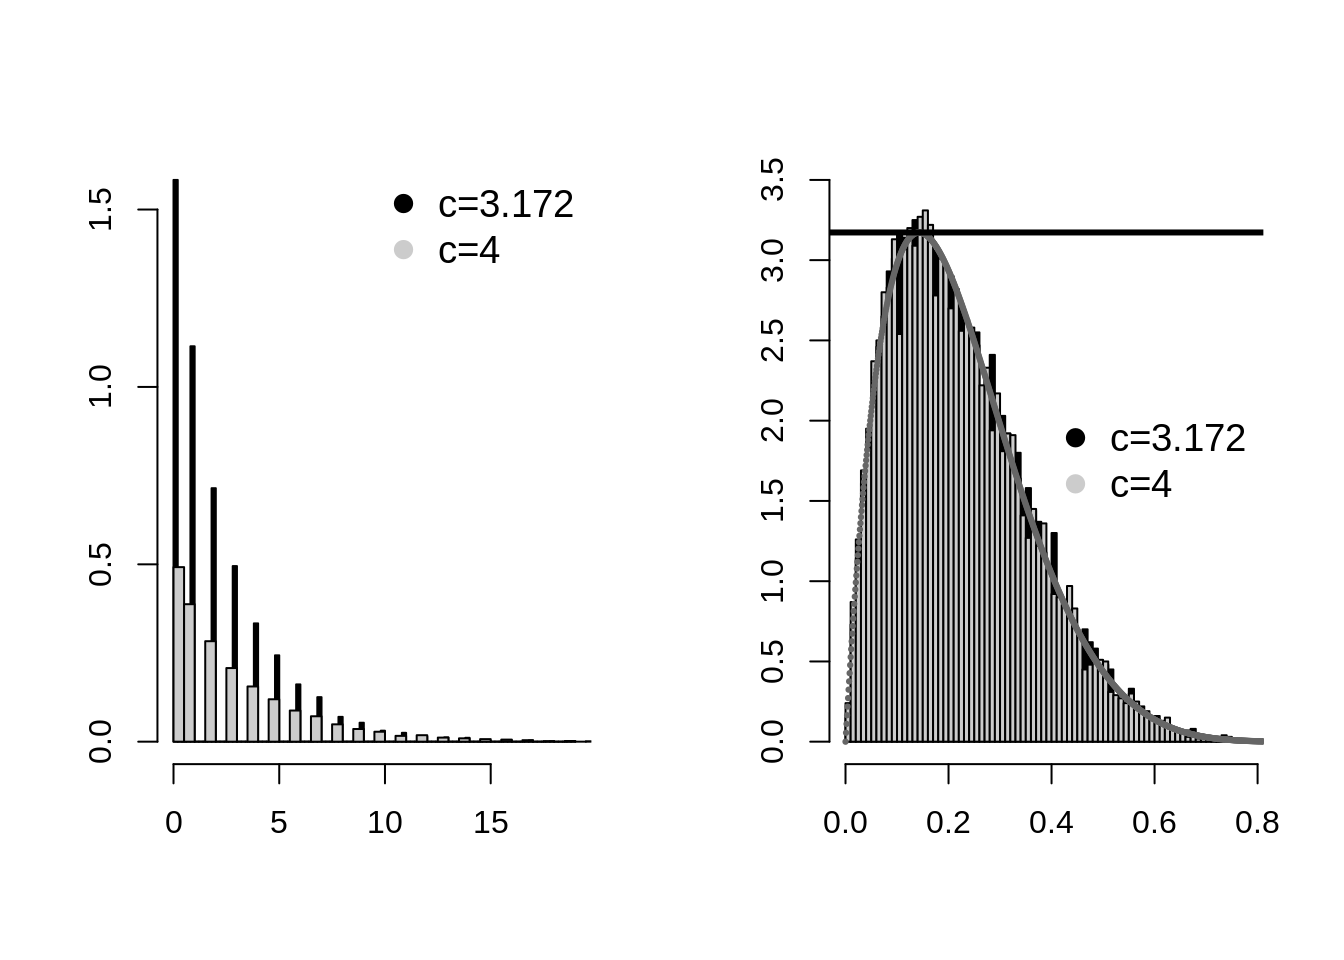
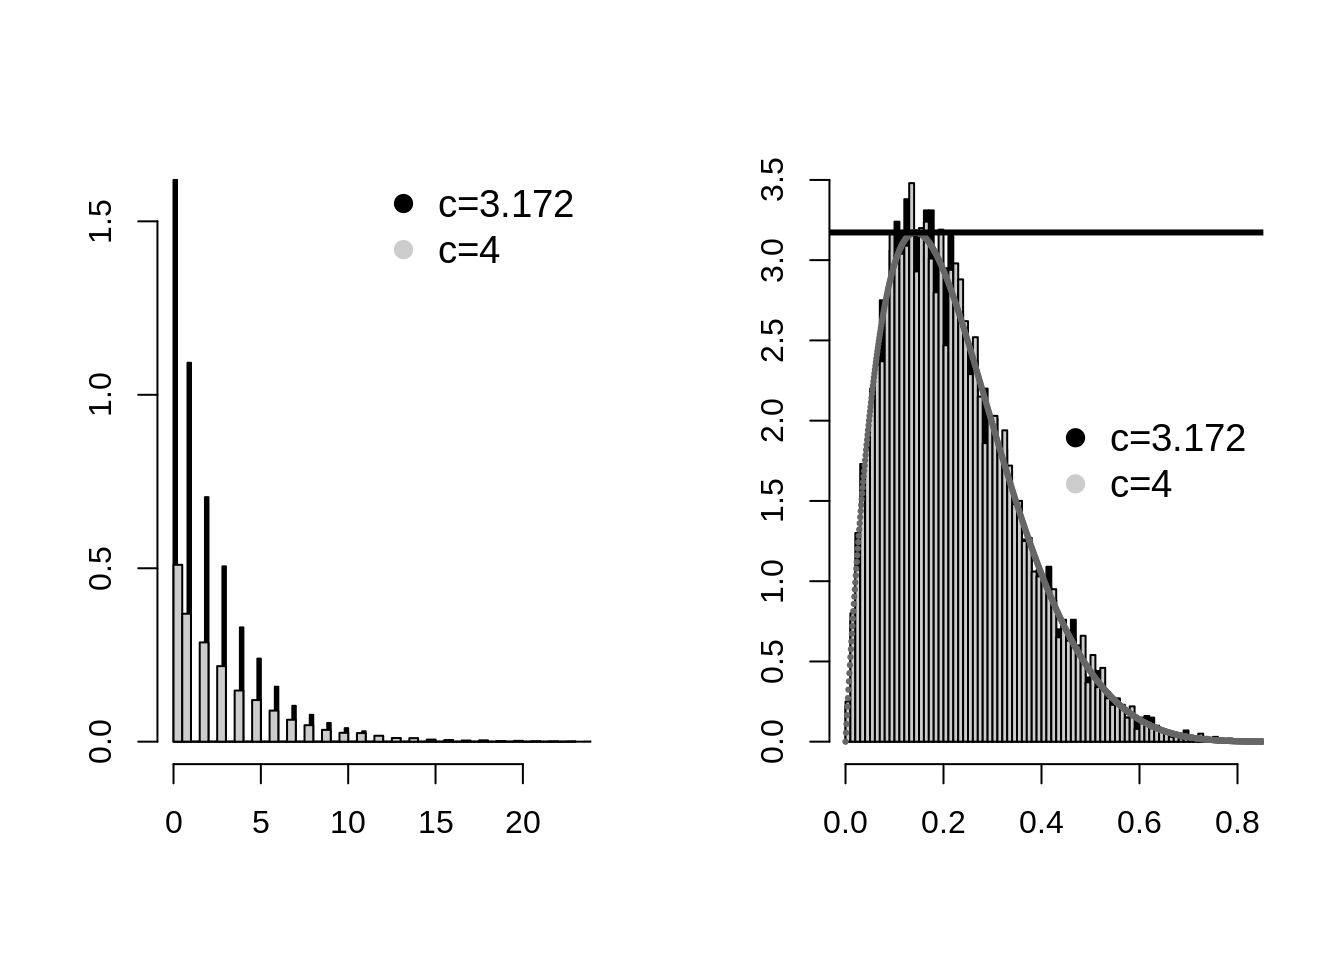
Adding some files

diff --git a/post/2020-12-18-acceptance-rejection-algorithm/index.html b/post/2020-12-18-acceptance-rejection-algorithm/index.html
@@ -145,7 +145,7 @@ A probability distribution gives the probability of having a random variable Y. 
 
 <p>This is one of my favourite introductory algorithm for sampling data from a distribution. A pre requisite basic knowledge about probability distribution, CDF and inverse CDF is necessary to follow the article.</p>
 <p>A probability distribution gives the probability of having a random variable Y. To get Y from probability, a usual method is to find inverse CDF. There are several pdf whose inverse are difficult to obtain, does not exist or have no closed solution. Acceptance-Rejection method is used when it is not possible to find inverse CDF of a distribution, but we can get random variable (rv) using inverse of another similar distribution and say whether this particular rv can be used as if it was generated from our original distribution.</p>
-<p>In acceptance rejection method, the idea is to find a probabiliy distribution, <span class="math inline">\(g_y\)</span>, from which we can generate a random variable (rv) Y and able to tell whether this rv can be accepted for our target distribution, <span class="math inline">\(f_y\)</span>. The random variable Y is chosen in such a way that the <span class="math inline">\(g_y\)</span> can be scaled to majorize <span class="math inline">\(f_y\)</span> using some constant c; that is <span class="math inline">\(c.g_y(x)\geq f_y(x)\)</span>. The density <span class="math inline">\(g_y\)</span> is known as majorizing density or proposal density and <span class="math inline">\(f_y\)</span> is known as target density. The <a href="https://math.stackexchange.com/questions/2667060/support-of-density-function">support</a> of the target density must be contained in the support of proposal density. For density having infinite support, the majorizing density should also have infinite support. In the case of infinite support, it is critical that the majorizing density should not approach zero faster than the target density. It makes sense now as if there’s a region of the support of f that g can never touch, then that area will never get sampled.</p>
+<p>In acceptance rejection method, the idea is to find a probability distribution, <span class="math inline">\(g_y\)</span>, from which we can generate a random variable (rv) Y and able to tell whether this rv can be accepted for our target distribution, <span class="math inline">\(f_y\)</span>. The random variable Y is chosen in such a way that the <span class="math inline">\(g_y\)</span> can be scaled to majorize <span class="math inline">\(f_y\)</span> using some constant c; that is <span class="math inline">\(c.g_y(x)\geq f_y(x)\)</span>. The density <span class="math inline">\(g_y\)</span> is known as majorizing density or proposal density and <span class="math inline">\(f_y\)</span> is known as target density. The <a href="https://math.stackexchange.com/questions/2667060/support-of-density-function">support</a> of the target density must be contained in the support of proposal density. For density having infinite support, the majorizing density should also have infinite support. In the case of infinite support, it is critical that the majorizing density should not approach zero faster than the target density. It makes sense now as if there’s a region of the support of f that g can never touch, then that area will never get sampled.</p>
 <p><strong>Following is the Acceptance Rejection algorithm :</strong></p>
 <ol style="list-style-type: decimal">
 <li>Sample a rv Y <span class="math inline">\(\sim g_y(x)\)</span> ( by taking inverse CDF. Remember, taking inverse of majorizing function should be easy)</li>
@@ -154,7 +154,7 @@ A probability distribution gives the probability of having a random variable Y. 
 <li>Else accept Y for <span class="math inline">\(f_y(x)\)</span>.</li>
 <li>Keep repeating the above step for desired number of samples.</li>
 </ol>
-<p>Step 2 generates uniform probability between 0 and 1. In Step 3 but the ratio <span class="math inline">\(f_y(x)/g_y(x)\)</span> is bounded by a constant c&gt;0. c.g(x) acts as a envelope for the target function <span class="math inline">\(f_y\)</span>. I did not find much meaning of the ratio but one way to think about this fraction is that, it inherently implies that how many fraction of rv for <span class="math inline">\(f_y\)</span> is included in c*<span class="math inline">\(g_y\)</span>. Step 3 implies that if the probability of generated point is lesser than probability generated by uniform distribution then accept that sample, which I find is a nice way to think about it. We need to maximize this fraction so that we can cover most of the points in <span class="math inline">\(g_y\)</span> for <span class="math inline">\(f_y\)</span>. Moreover, larger C value will result inot rejection of more samples so we need to find c as small as possible.</p>
+<p>Step 2 generates uniform probability between 0 and 1. In Step 3 but the ratio <span class="math inline">\(f_y(x)/g_y(x)\)</span> is bounded by a constant c&gt;0. c.g(x) acts as a envelope for the target function <span class="math inline">\(f_y\)</span>. I did not find much meaning of the ratio but one way to think about this fraction is that, it inherently implies that how many fraction of rv for <span class="math inline">\(f_y\)</span> is included in c*<span class="math inline">\(g_y\)</span>. Step 3 implies that if the probability of generated point is lesser than probability generated by uniform distribution then accept that sample, which I find is a nice way to think about it. We need to maximize this fraction so that we can cover most of the points in <span class="math inline">\(g_y\)</span> for <span class="math inline">\(f_y\)</span>. Moreover, larger C value will result into rejection of more samples so we need to find c as small as possible.</p>
 <p>Example-1: Generating beta(2,7) distribution</p>
 <pre class="r"><code>#code by : Krzysztof Bartoszek
 fgenbeta&lt;-function(c){
@@ -180,8 +180,8 @@ par(mfrow=c(1,2))
 hist(mbetas1[2,],col=&quot;black&quot;,breaks=100,xlab=&quot;&quot;,ylab=&quot;&quot;,freq=FALSE,main=&quot;&quot;);hist(mbetas2[2,],col=gray(0.8),breaks=100,xlab=&quot;&quot;,ylab=&quot;&quot;,freq=FALSE,main=&quot;&quot;,add=TRUE);legend(&quot;topright&quot;,pch=19,cex=1.2,legend=c(&quot;c=3.172&quot;,&quot;c=4&quot;),col=c(&quot;black&quot;,gray(0.8)),bty=&quot;n&quot;)
 hist(mbetas1[1,],col=&quot;black&quot;,breaks=100,xlab=&quot;&quot;,ylab=&quot;&quot;,freq=FALSE,main=&quot;&quot;,ylim=c(0,3.5));hist(mbetas2[1,],col=gray(0.8),breaks=100,xlab=&quot;&quot;,ylab=&quot;&quot;,freq=FALSE,main=&quot;&quot;,add=TRUE);points(seq(0,2,0.001),y,pch=19,cex=0.3,col=gray(0.4));abline(h=3.172554,lwd=3);legend(&quot;right&quot;,pch=19,cex=1.2,legend=c(&quot;c=3.172&quot;,&quot;c=4&quot;),col=c(&quot;black&quot;,gray(0.8)),bty=&quot;n&quot;)</code></pre>
 <p><img src="/post/2020-12-18-acceptance-rejection-algorithm/index.en_files/figure-html/unnamed-chunk-1-1.png" width="672" /></p>
-<p>We can see from the above example that the larger value of c tends to reject more sample than low value of c. The black color shows that the samples of beta distribution was accepted more than that of gray color. In second picure one can see black lines even though it is in background which shows that lesser c values has lower rejection rate.</p>
-<p>As an another example, let’s generate samples for normal distribution <span class="math inline">\(\mathcal{N(0,1)}\)</span> using laplace or double exponential distribution as proposal density DE(0, 1). Below are the given two distribution :</p>
+<p>We can see from the above example that the larger value of c tends to reject more sample than low value of c. The black color shows that the samples of beta distribution was accepted more than that of gray color. In second picture one can see black lines even though it is in background which shows that lesser c values has lower rejection rate.</p>
+<p>As an another example, let’s generate samples for normal distribution <span class="math inline">\(\mathcal{N(0,1)}\)</span> using Laplace or double exponential distribution as proposal density DE(0, 1). Below are the given two distribution :</p>
 <p><span class="math display">\[
 \begin{aligned}
     g(x|\mu=0,\alpha=1) &amp;= \frac{1}{2}* e^{-|x|}  \hspace{40pt} :Laplace Distribution  \\
@@ -205,8 +205,8 @@ U &amp; \leq \frac{f(x)}{C*g(x)} \\
 U &amp;\leq 0.5*e^{\frac{x^2}{2} + |x|}
 \end{aligned}
 \]</span></p>
-<p>Step 1 of equation is generating samples from laplace distribution whose inverse can be found. This <a href="https://math.stackexchange.com/questions/2667060/support-of-density-function">link</a> gives how to find he inverse.</p>
-<p>Below is the complete code fo acceptance-rejection:</p>
+<p>Step 1 of equation is generating samples from Laplace distribution whose inverse can be found. This <a href="https://math.stackexchange.com/questions/2667060/support-of-density-function">link</a> gives how to find the inverse.</p>
+<p>Below is the complete code for acceptance-rejection:</p>
 <pre class="r"><code>#author: Naveen gabriel
 accept_reject &lt;- function(sam) {
     f_x &lt;- c()
@@ -247,9 +247,9 @@ The average rejection rate is :
 <span class="math display">\[1 - \frac{2000}{total}\]</span>
 <br></p>
 <p>Where total is the total number of iterations required to generate 2000 samples. Our average rejection rate is nearly equal to expected rejection rate.</p>
-<pre><code>## The average rejection rate is : 0.2395437</code></pre>
-<p>You might be thinking why we need sampling method, that too generating random samples from probability. Imagine you have dataset where there are missing values and you might know a distribution from which the samples can be generated. But taking the inverse of that distribution might be too difficult. In that case we can use this method. It might feel weird to do this process because we dont encounter it while doing sampling. Many known densities (exponential, normal, beta etc) have library methods tha generate samples using one of different sampling method. Unlike inverse CDF, this method can be extend to multivariate random variables. If the random variable is of a reasonably low dimension (less than 10?), then rejection sampling is a plausible general approach. But keep in mind that as the number of dimension increase the rate of rejection increases.</p>
-<p>There are different flavours of rejection sampling like Squeezed rejection sampling, adaptive rejection sampling etc. The acceptance-rejection method can be generalized to the Metropolis–Hastings algorithm which is a type of Markov chain Monte Carlo simulation. Below are some of the awesome link to understand more of this method:</p>
+<pre><code>## The average rejection rate is : 0.2432841</code></pre>
+<p>You might be thinking why we need sampling method, that too generating random samples from probability. Imagine you have dataset where there are missing values and you might know a distribution from which the samples can be generated. But taking the inverse of that distribution might be too difficult. In that case we can use this method. It might feel weird to do this process because we don’t encounter it while doing sampling. Many known densities (exponential, normal, beta etc) have library methods that generate samples using one of different sampling method. Unlike inverse CDF, this method can be extend to multivariate random variables. If the random variable is of a reasonably low dimension (less than 10?), then rejection sampling is a plausible general approach. But keep in mind that as the number of dimension increase the rate of rejection increases.</p>
+<p>There are different flavors of rejection sampling like Squeezed rejection sampling, adaptive rejection sampling etc. The acceptance-rejection method can be generalized to the Metropolis–Hastings algorithm which is a type of Markov chain Monte Carlo simulation. Below are some of the awesome link to understand more of this method:</p>
 <ul>
 <li><a href="http://www.columbia.edu/~ks20/4703-Sigman/4703-07-Notes-ARM.pdf">Columbia university notes</a></li>
 <li><a href="https://stats.stackexchange.com/questions/391598/understanding-rejection-sampling">Stack overflow</a></li>
